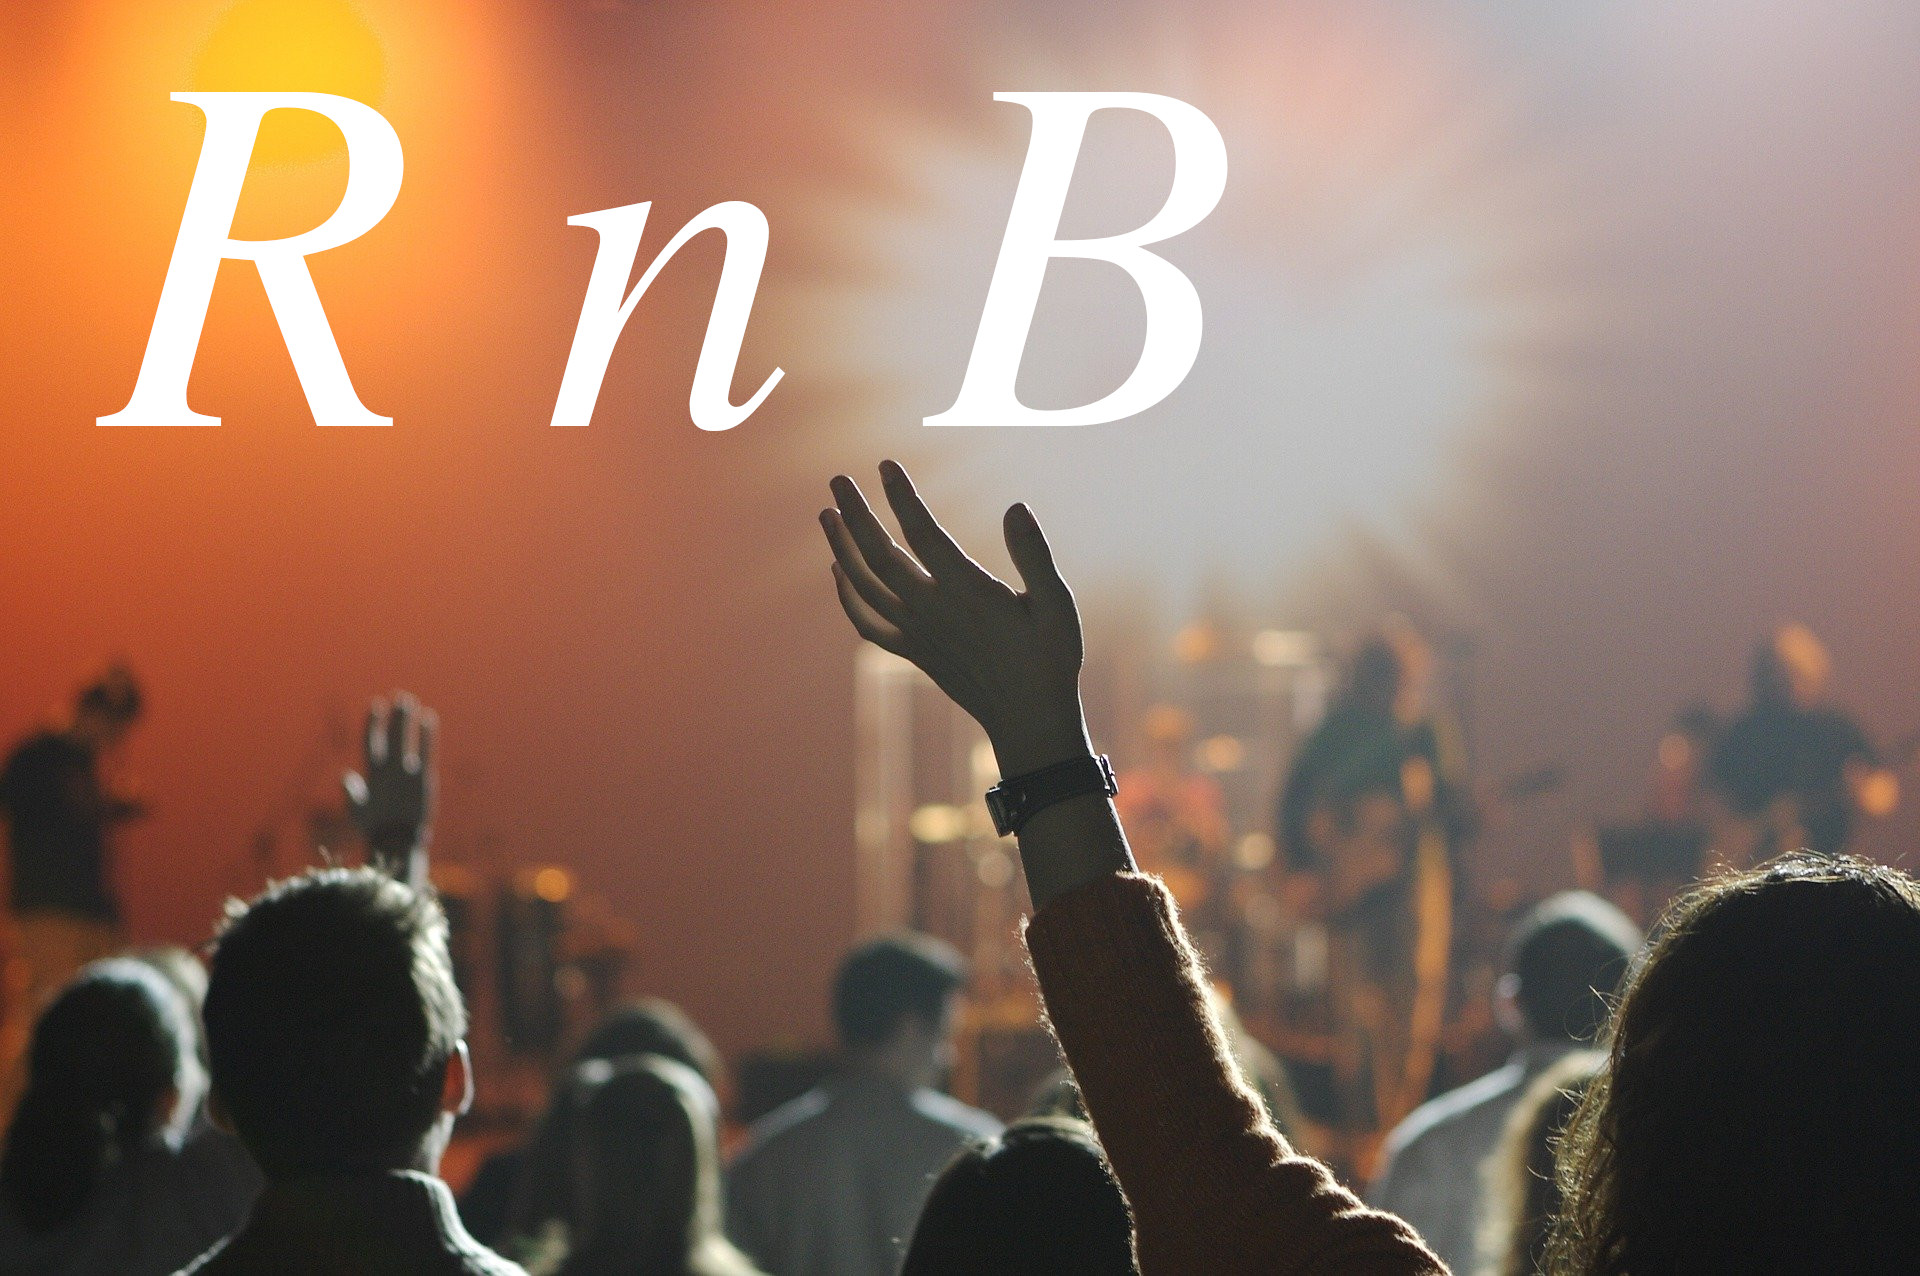
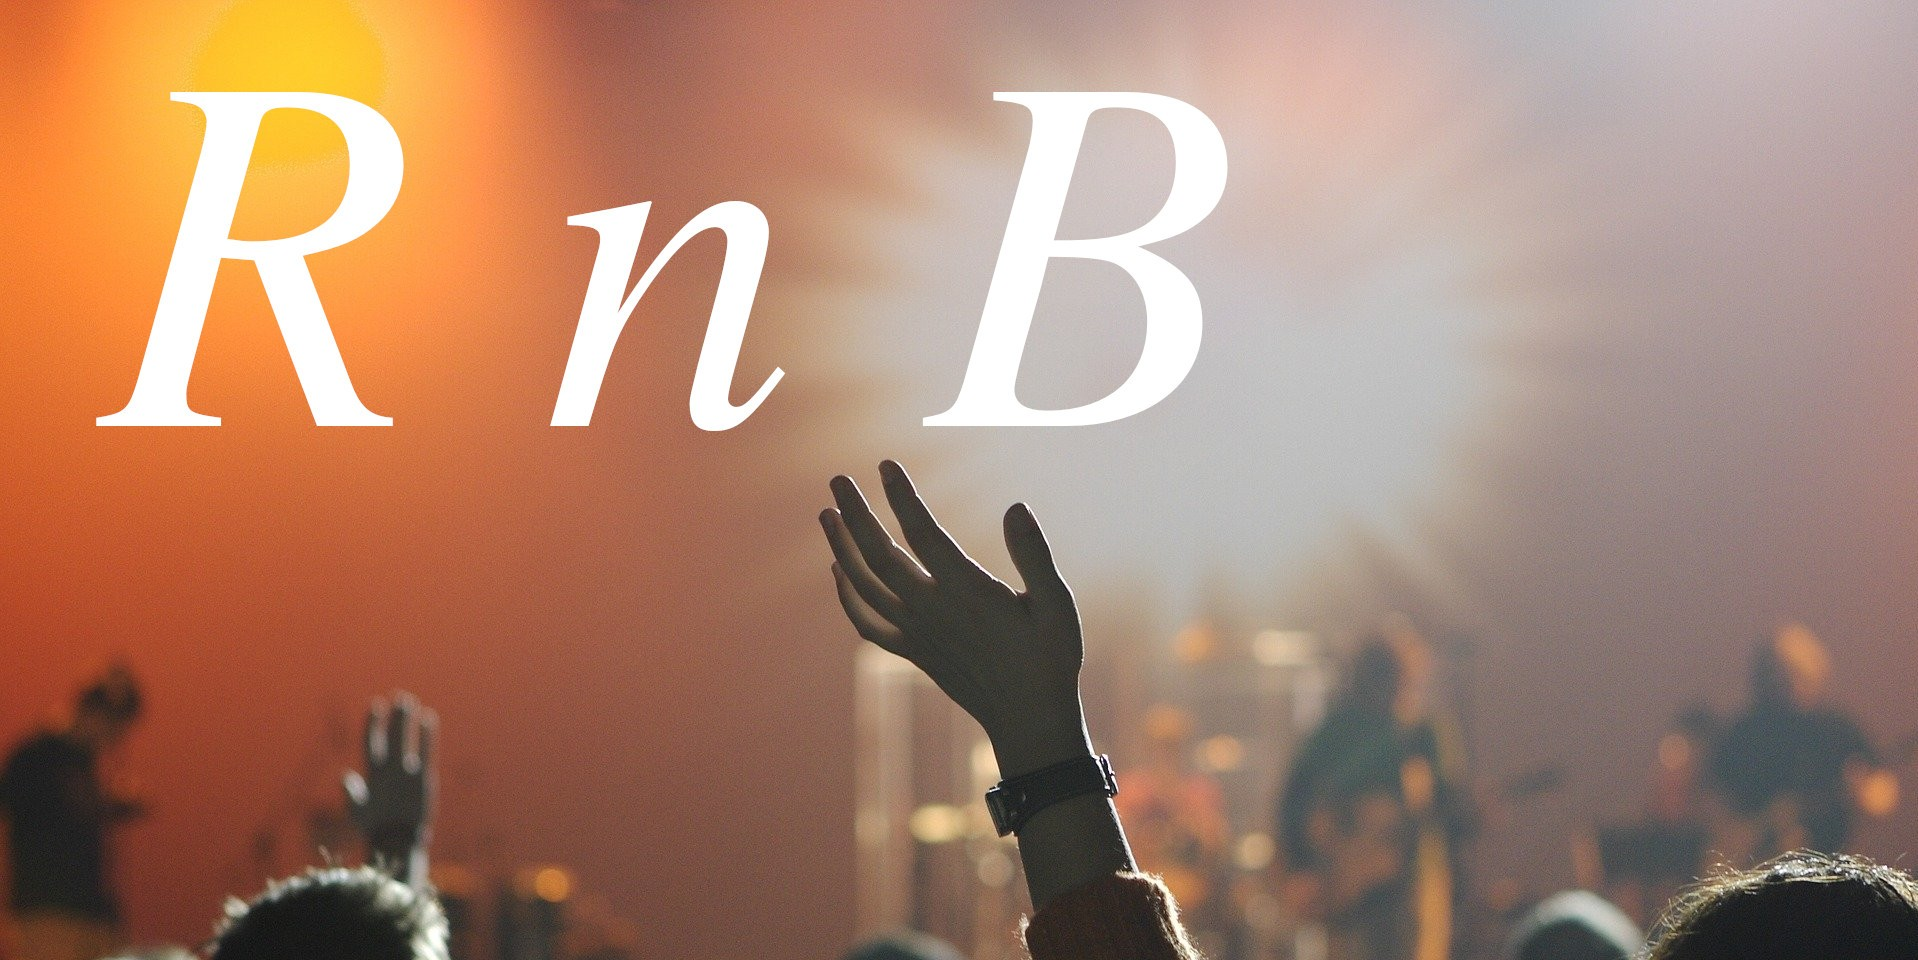
reframed title images for each genre page

diff --git a/templateGenreStyle.css b/templateGenreStyle.css
@@ -2,8 +2,7 @@
 
 
 .mainTitleGenre{
-
-    height: 200px;
+    height: auto;
     width: 100%;
     border-radius: 10px;;
 }
@@ -116,7 +115,8 @@ ul {
 @media screen and (min-width: 812px) {
 
     .mainTitleGenre{
-        height: 600px;
+        height: auto;
+        width: 100%;
     }
 
     .video{
